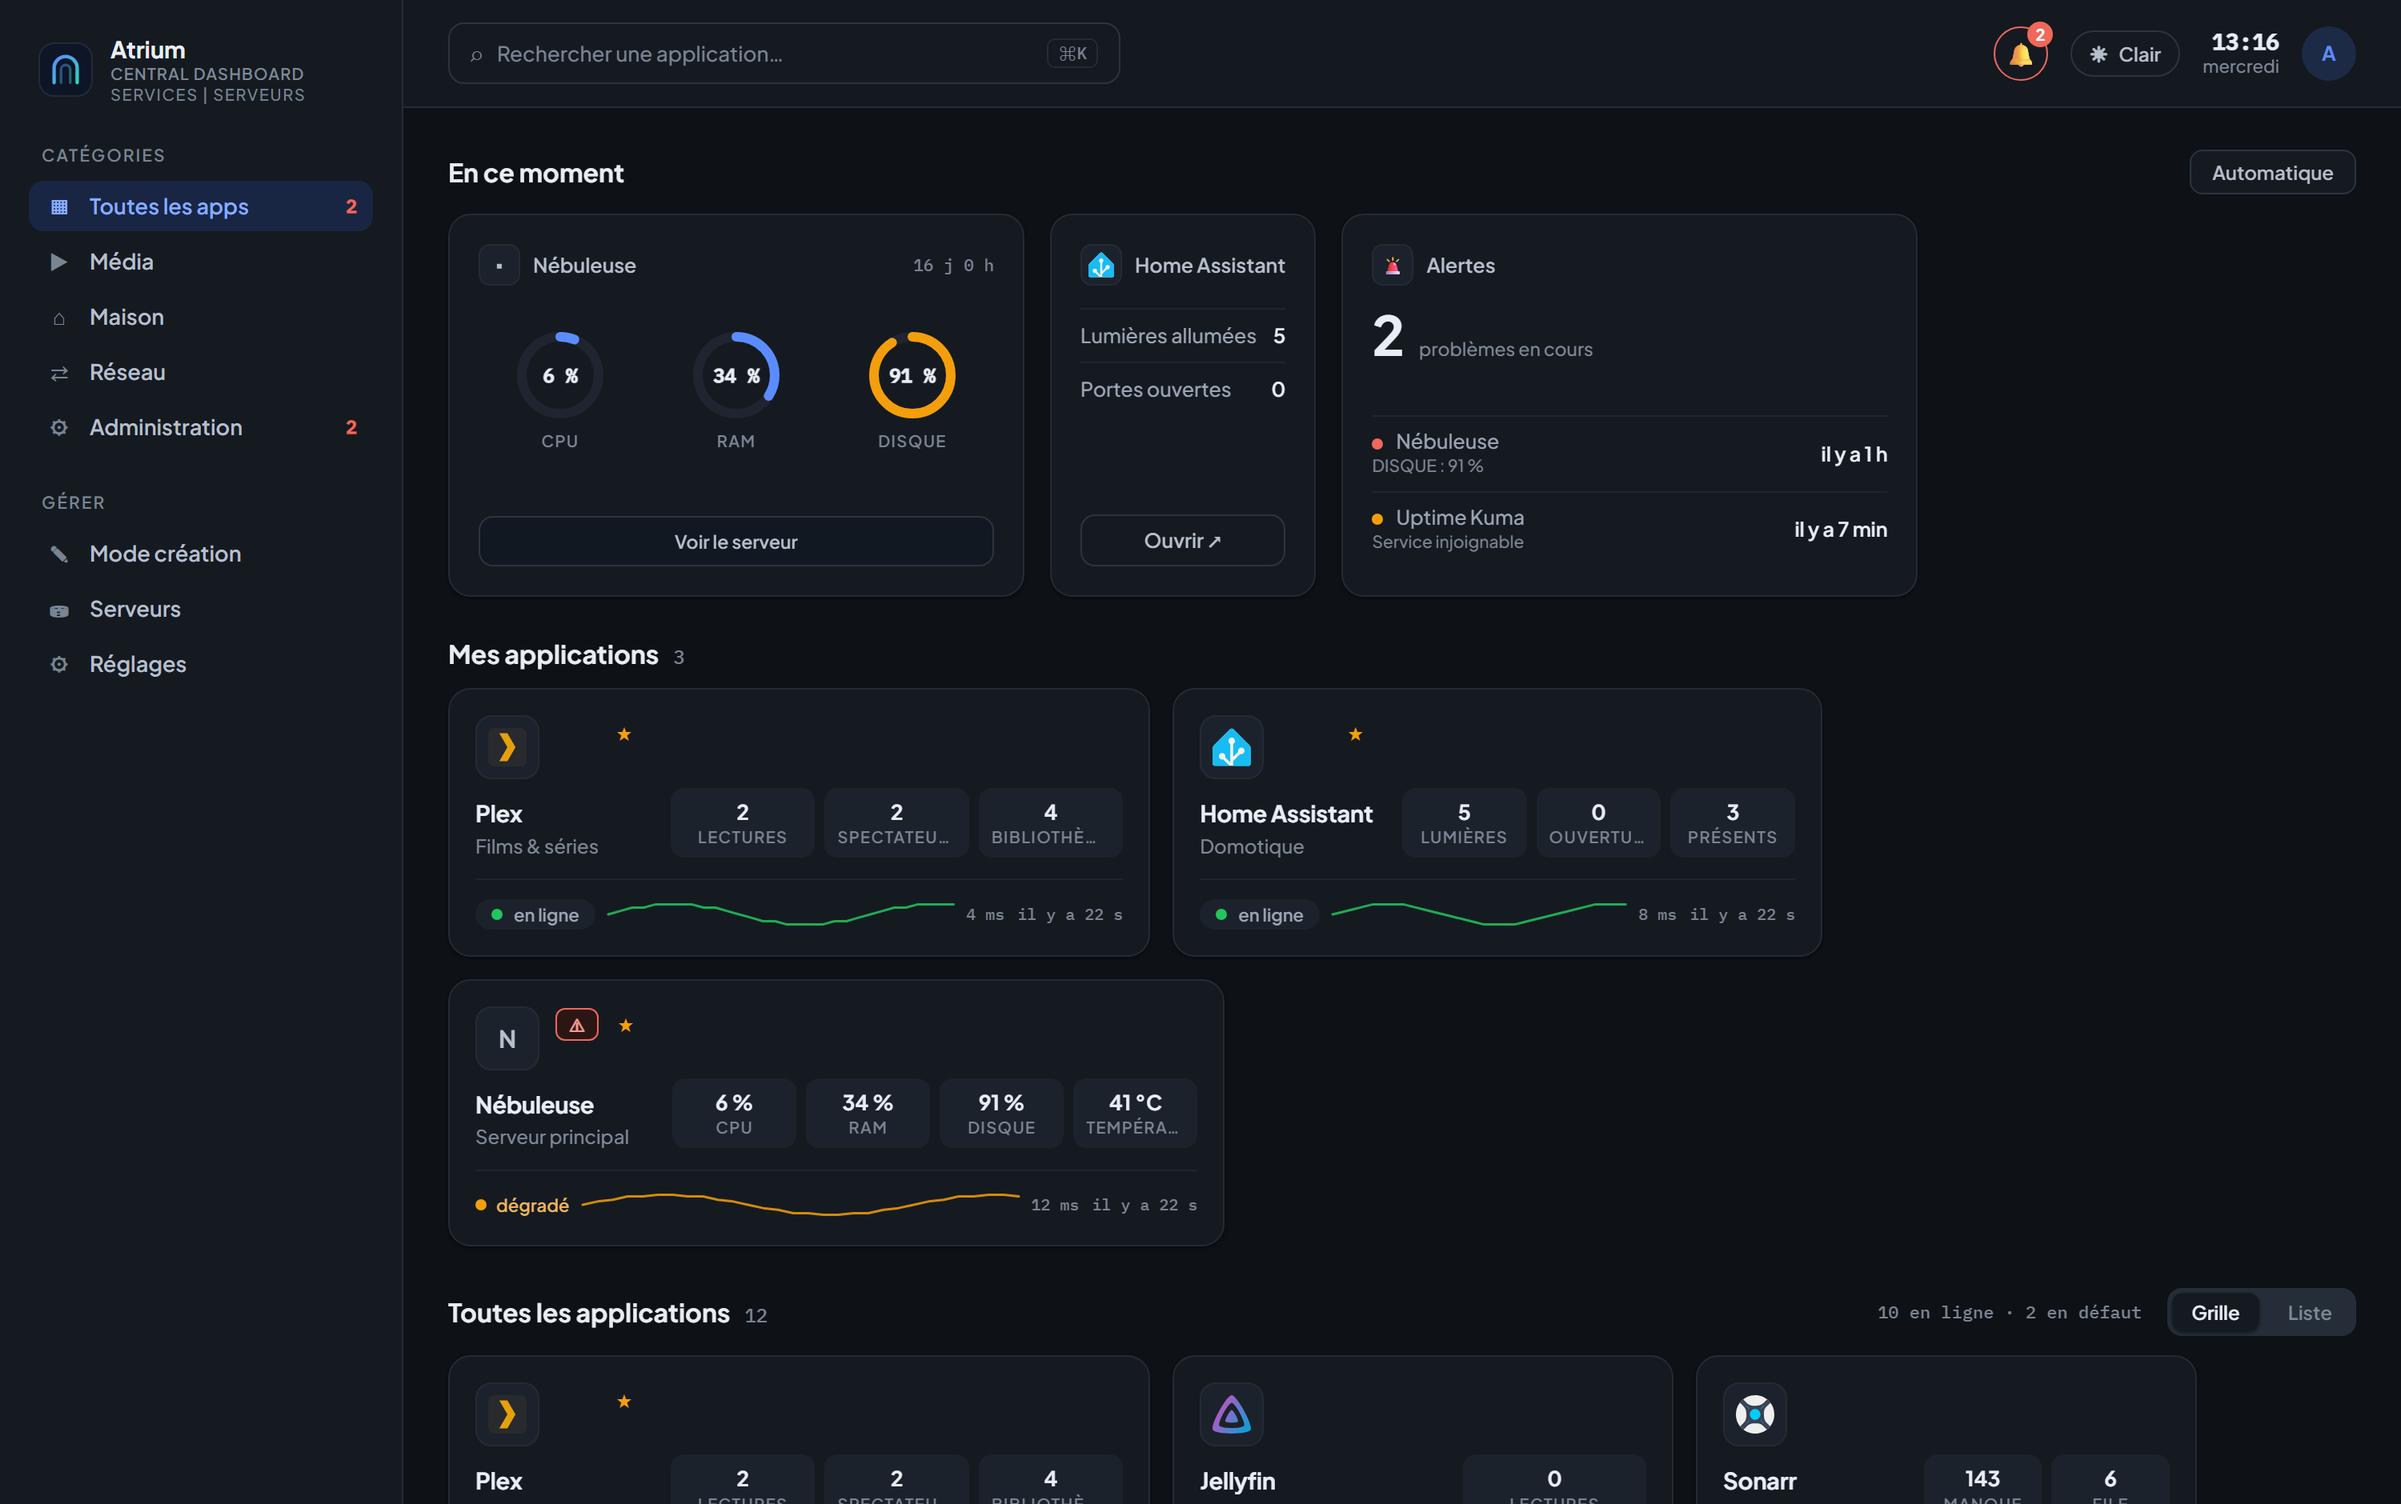
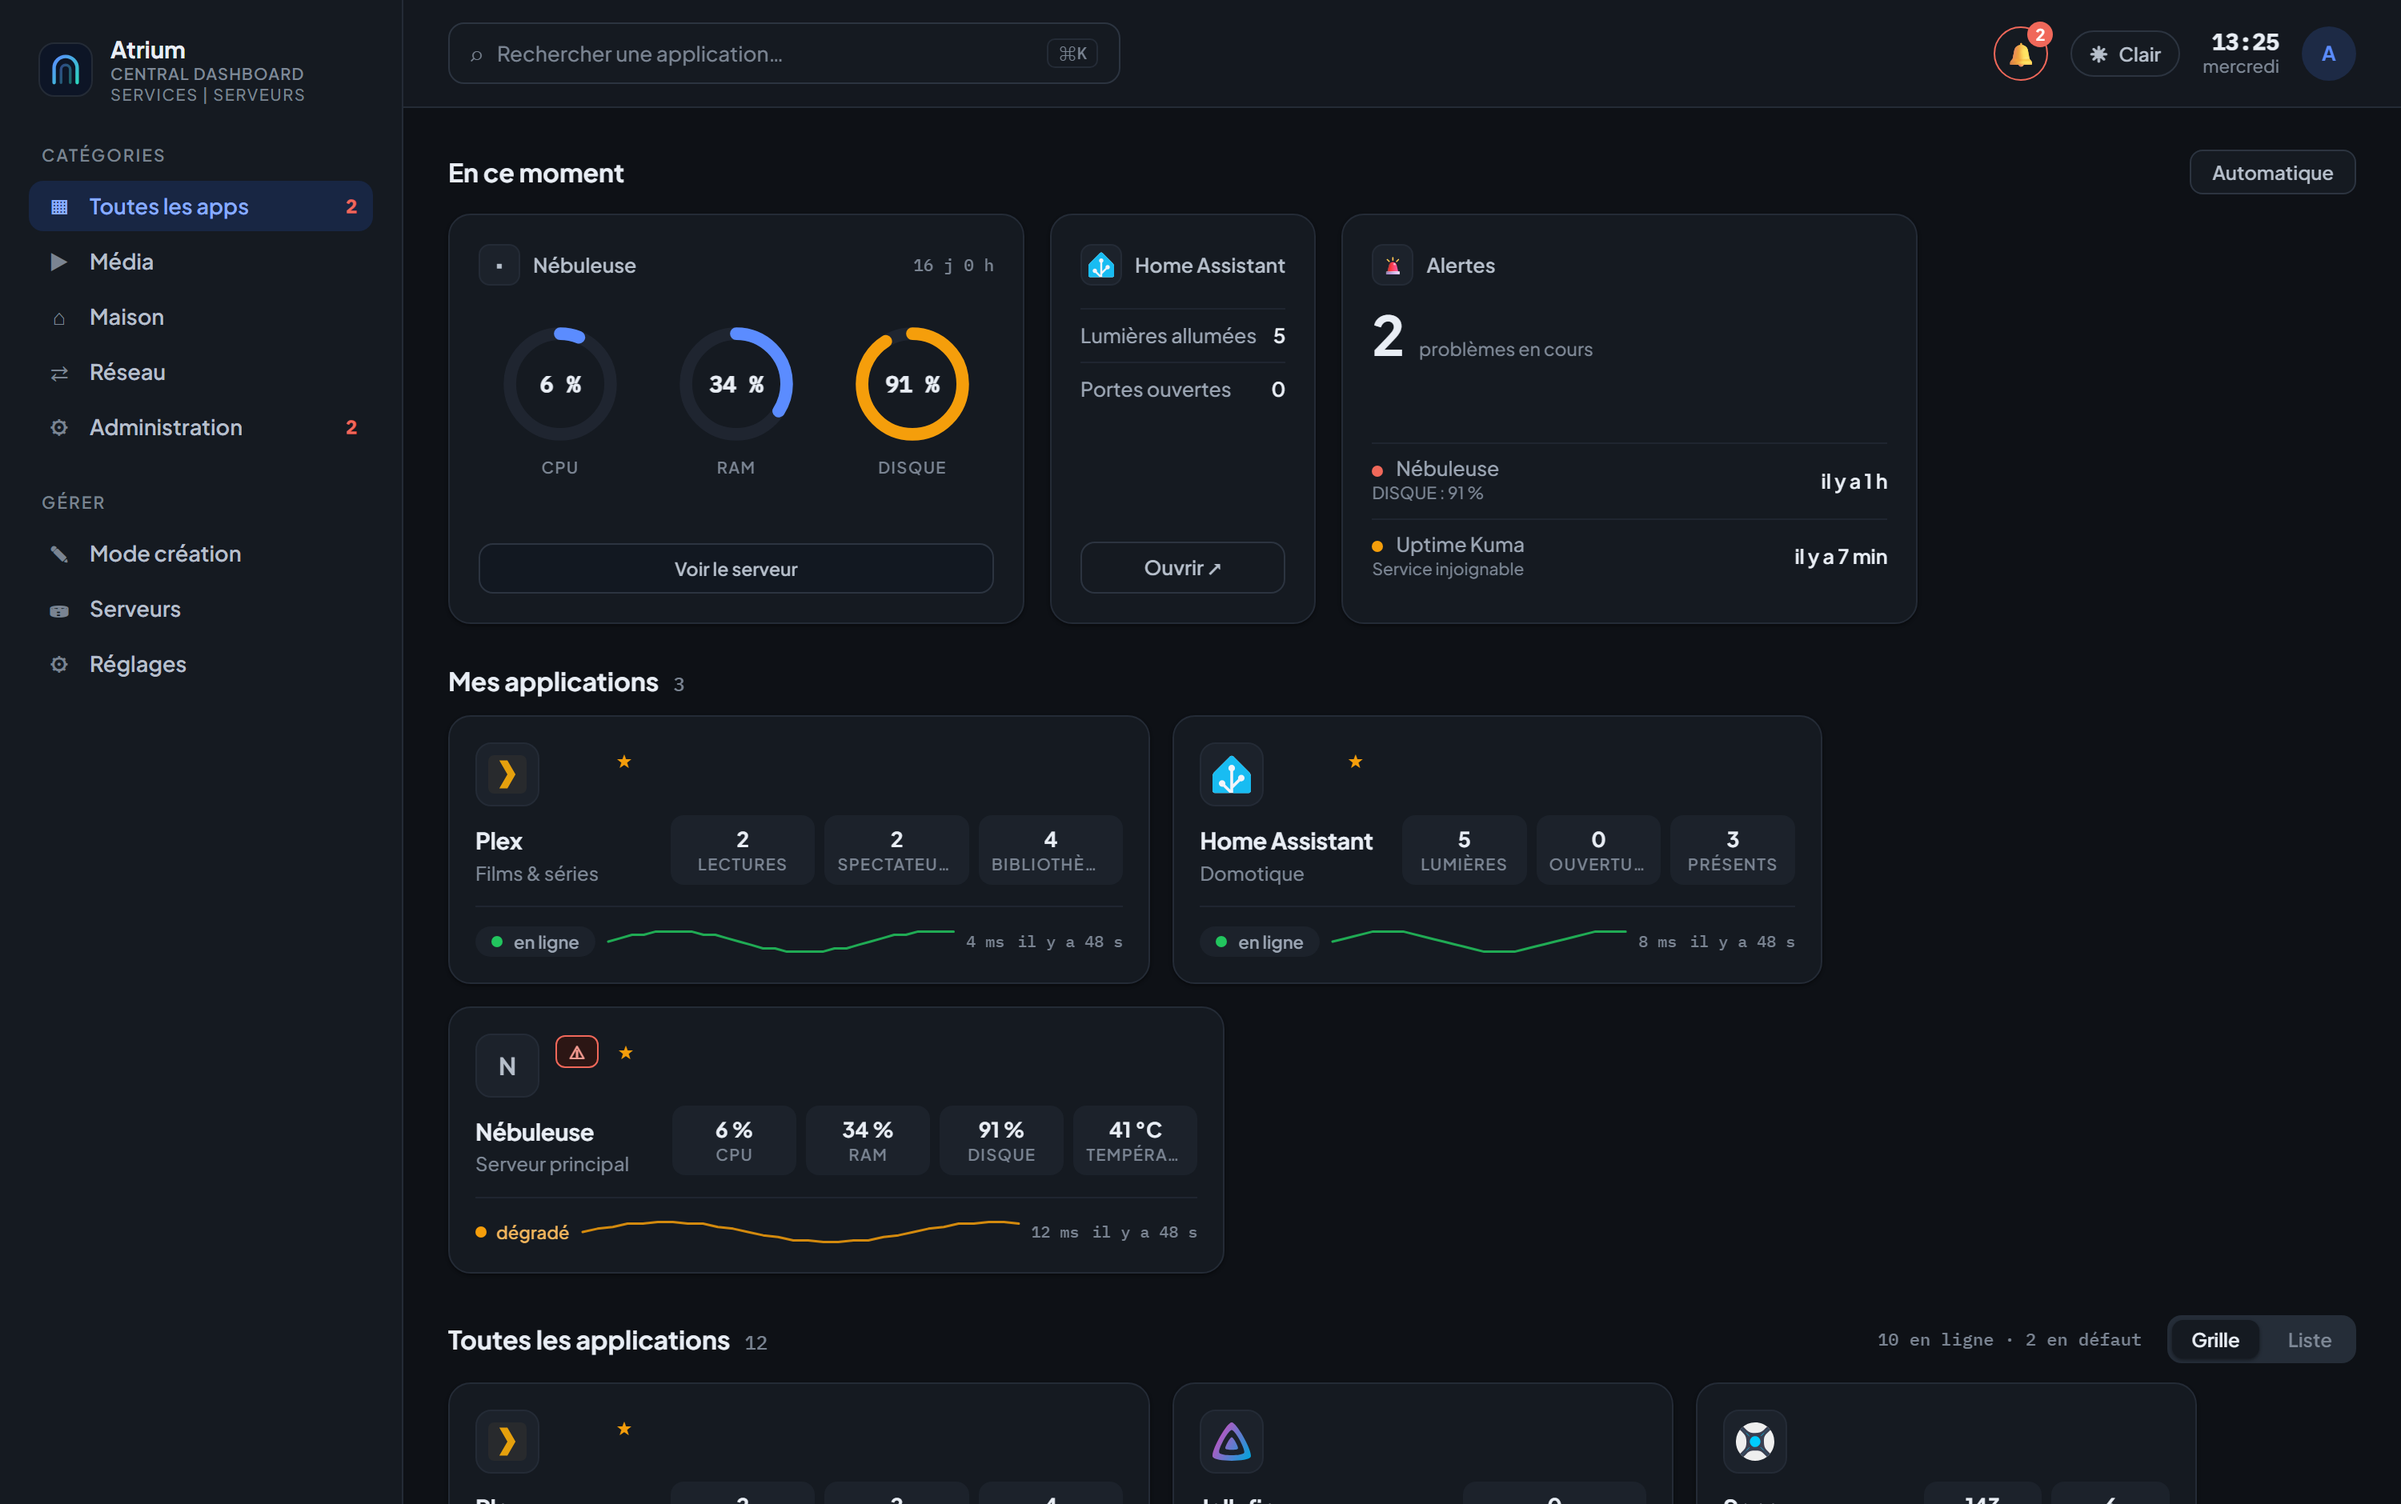
Les anneaux occupent leur carte
Même défaut que l affiche, corrigé de la même façon. La tuile serveur prend la
hauteur de la plus grande de sa rangée ; les anneaux restaient à cinquante-huit
pixels, surmontant quatre-vingt-dix pixels de vide avant le bouton.

La rangée d anneaux prend maintenant la place disponible et s y centre, et les
anneaux grandissent avec elle. Le diagramme redevient l élément principal de la
carte plutôt qu une vignette perdue dedans.

diff --git a/app/static/index.html b/app/static/index.html
@@ -175,17 +175,17 @@ summary:focus-visible,[tabindex]:focus-visible{
 /* ---- bandeau des problèmes en cours ---- */
 /* Trois grandeurs, trois anneaux : la charge se lit sans lire les chiffres.
    Le tracé vient des mêmes mesures que les barres qu'il remplace. */
-.cock-anneaux{display:flex;justify-content:space-around;gap:8px;margin:14px 0 4px}
+.cock-anneaux{flex:1;display:flex;align-items:center;justify-content:space-around;gap:8px;margin:10px 0 4px;min-height:96px}
 .cock-anneaux:empty{display:none}
-.anneau{display:flex;flex-direction:column;align-items:center;gap:7px}
-.anneau svg{width:58px;height:58px;transform:rotate(-90deg)}
+.anneau{display:flex;flex-direction:column;align-items:center;gap:9px}
+.anneau svg{width:76px;height:76px;transform:rotate(-90deg)}
 .anneau .piste{fill:none;stroke:var(--divider);stroke-width:6}
 .anneau .arc{fill:none;stroke:var(--accent);stroke-width:6;stroke-linecap:round;
              transition:stroke-dashoffset .5s cubic-bezier(.4,0,.2,1)}
 .anneau.s2 .arc{stroke:var(--warn)}
 .anneau.s3 .arc{stroke:var(--warn)}
 .anneau.s4 .arc{stroke:var(--bad)}
-.anneau .v{position:absolute;font:700 12px/1 'IBM Plex Mono',monospace;color:var(--text-1)}
+.anneau .v{position:absolute;font:700 14px/1 'IBM Plex Mono',monospace;color:var(--text-1)}
 .anneau .rond{position:relative;display:flex;align-items:center;justify-content:center}
 .anneau .l{font:600 10px/1 'Plus Jakarta Sans',sans-serif;letter-spacing:.07em;color:var(--muted-2)}
 .cock-up{margin-left:auto;font:500 10.5px/1 'IBM Plex Mono',monospace;color:var(--muted-2)}
